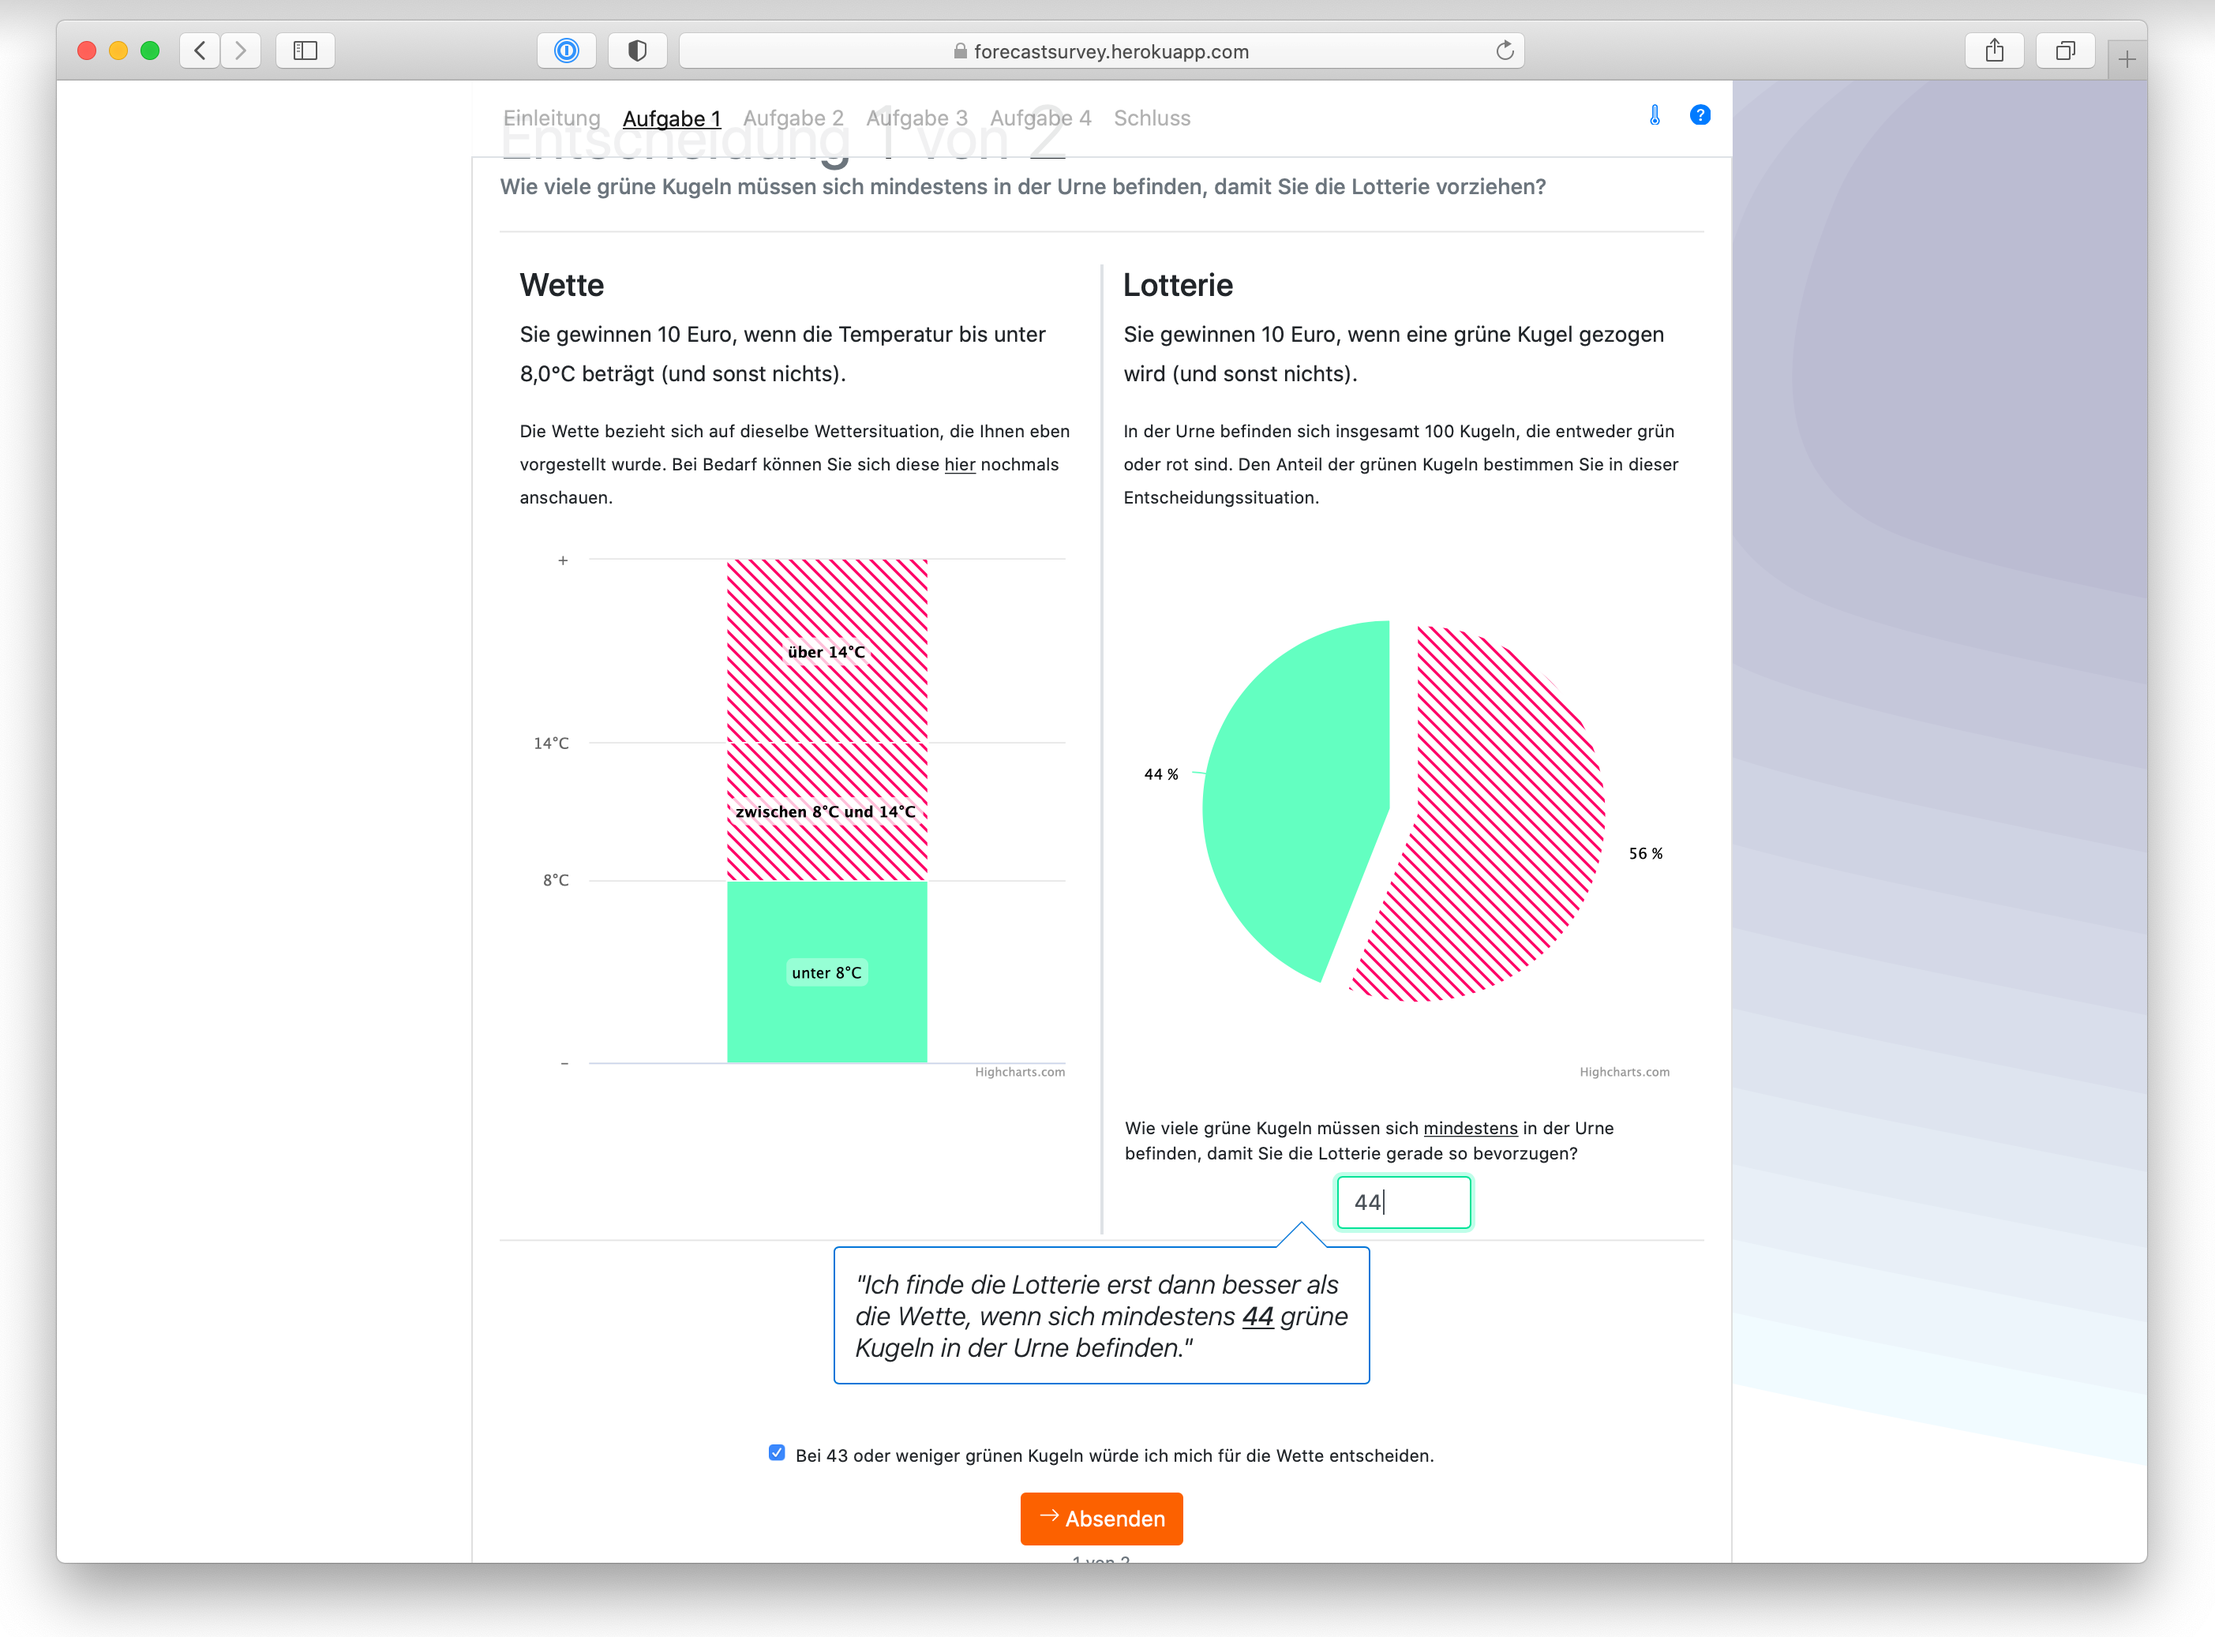
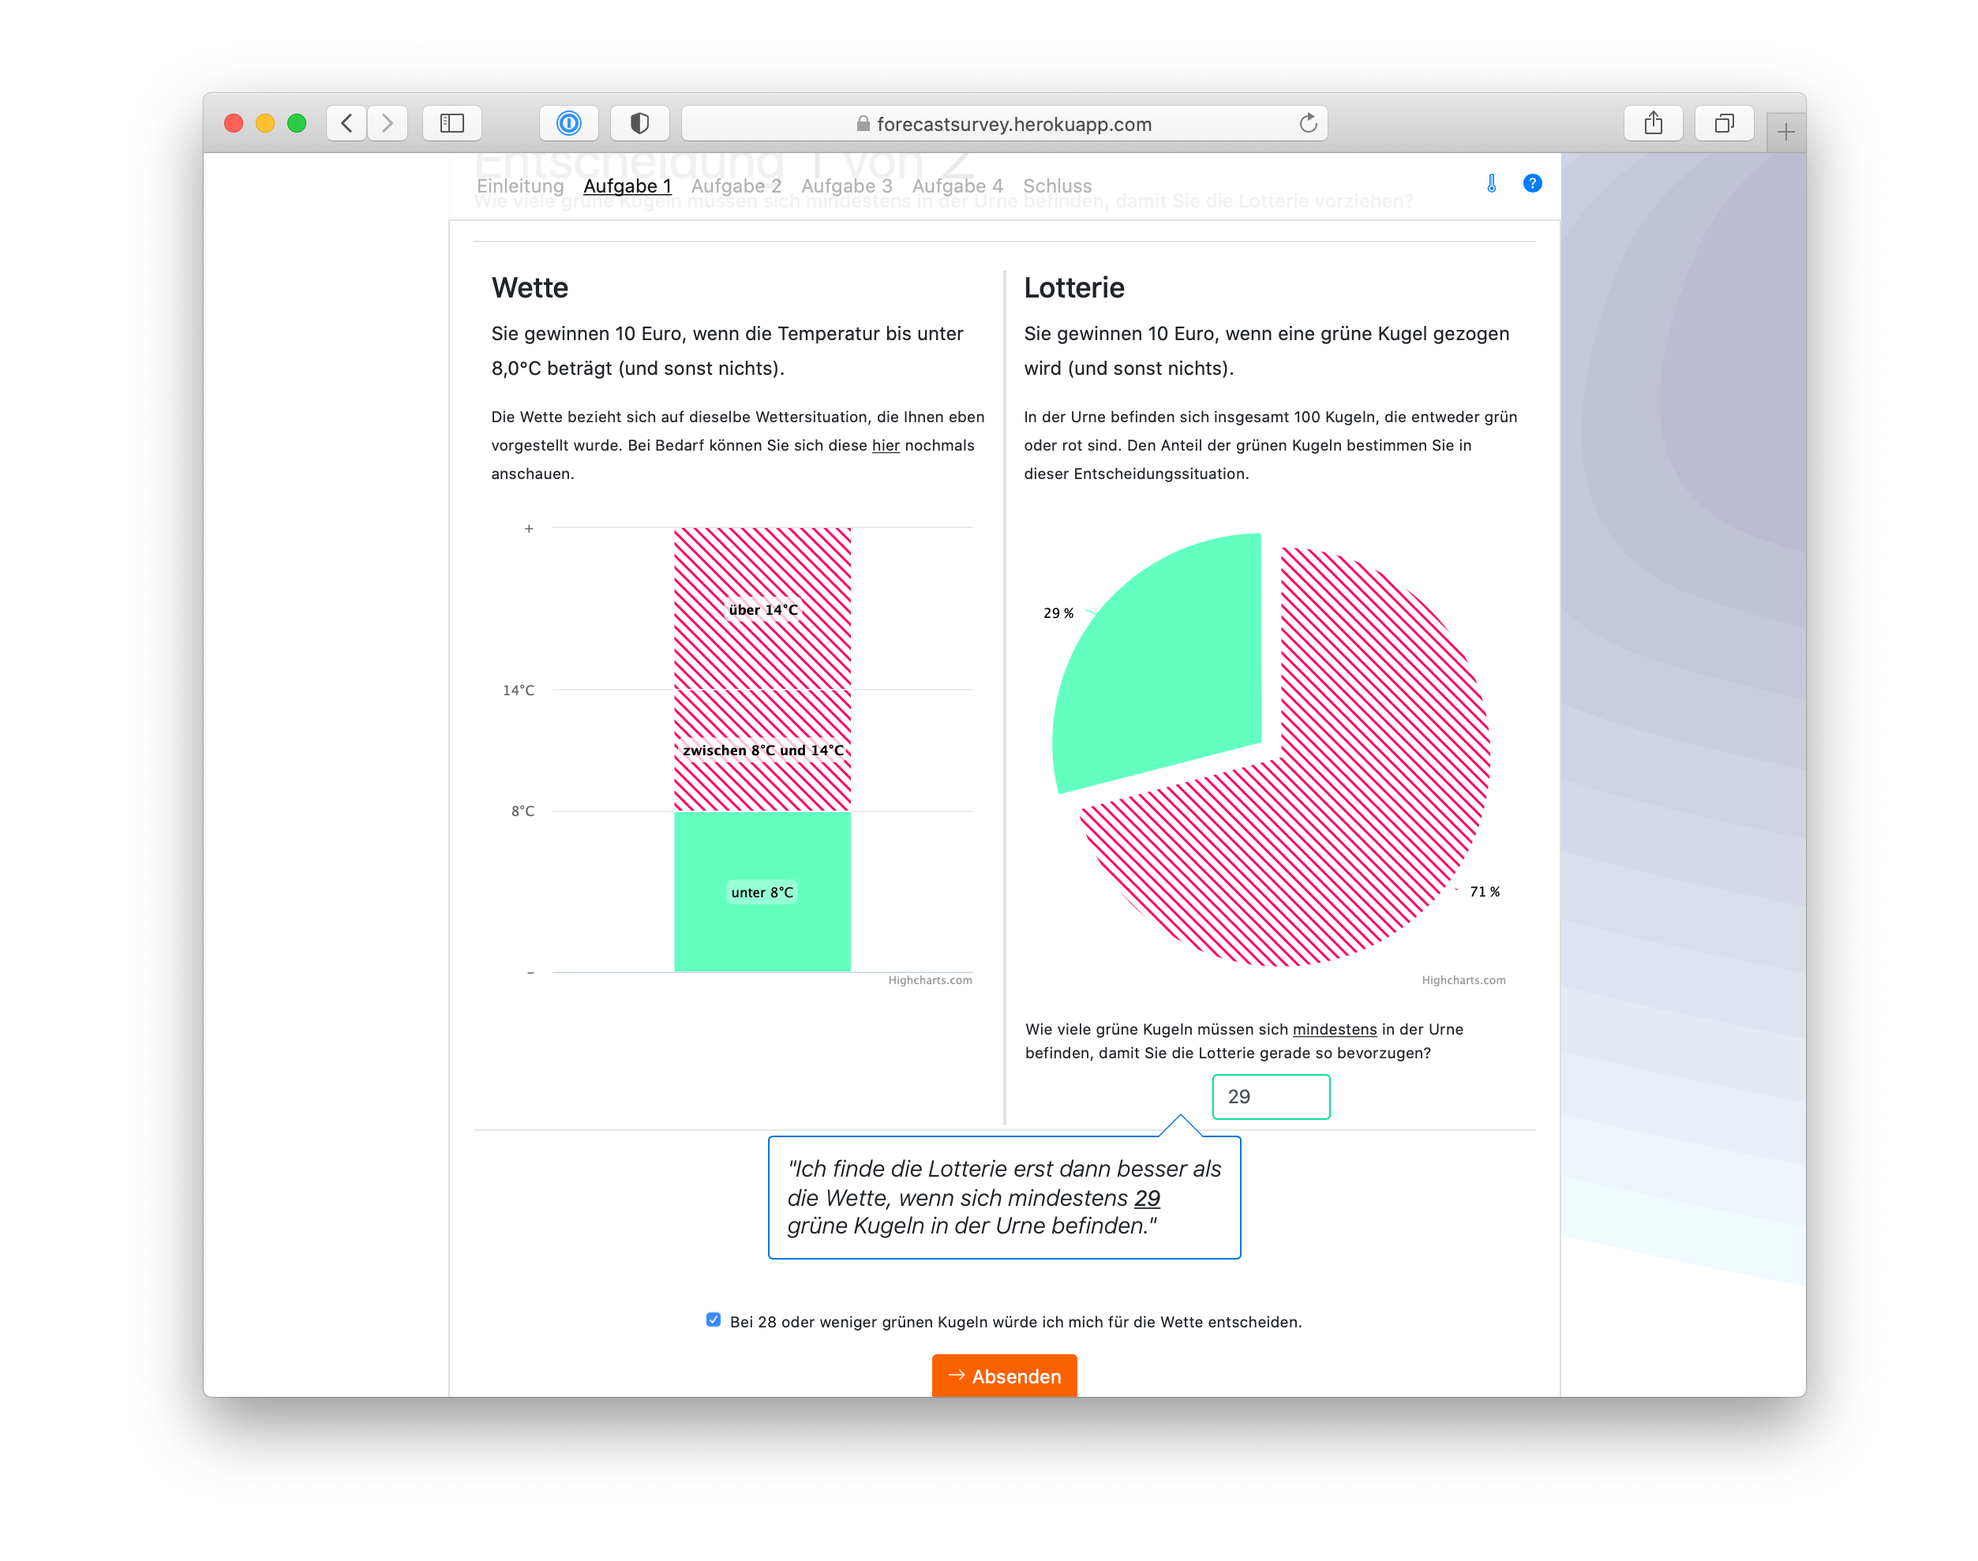
add picture

diff --git a/README.md b/README.md
@@ -26,6 +26,9 @@ _Baillon_MPP_) app.
 A click onn one of the apps will create a session and redirect you to a page containing lots of URLs. Click on the
 _Session-wide link_ to open the experiment.
 
+[![](figures/Baillon_Decision_Screen.png)](https://forecastsurvey.herokuapp.com/demo/)
+
+
 ## 📖 Read the docs
 I am creating a wiki [over here](https://github.com/Howquez/forecast-uncertainty/wiki).
 
